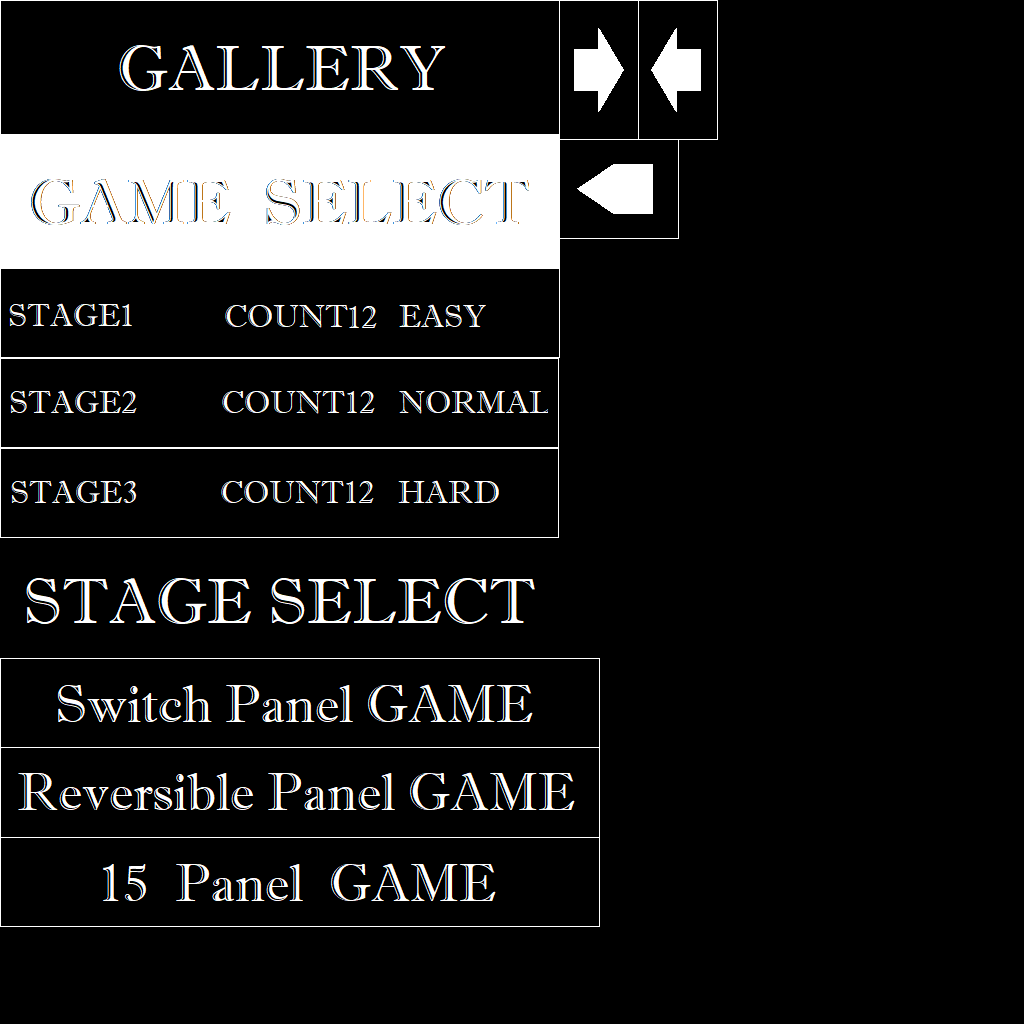
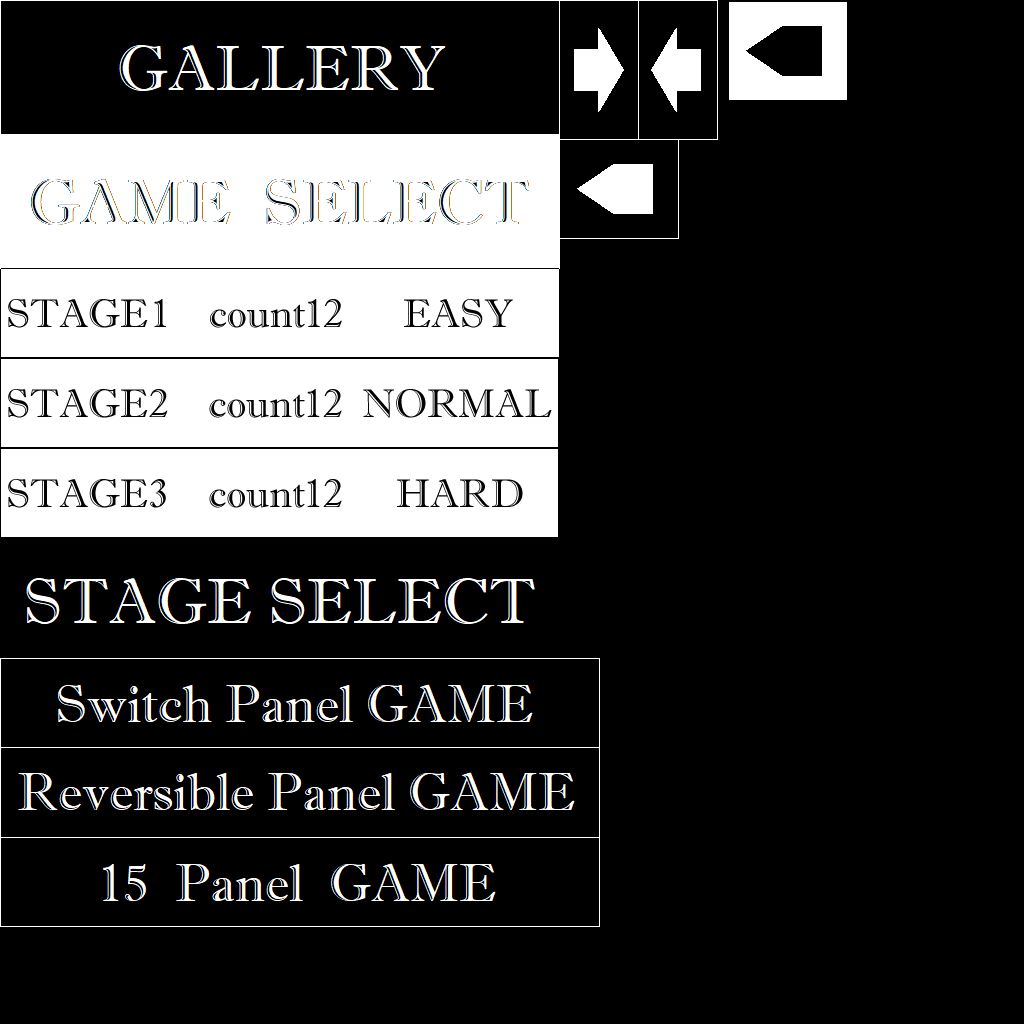
戻るボタンとかの色を反転差分追加

Changed region(s): [[0.0, 0.25, 0.5625, 0.5312], [0.6875, 0.0, 0.8438, 0.125]]

diff --git a/Project1/Project1/ObjSwitchSelect.h b/Project1/Project1/ObjSwitchSelect.h
@@ -45,10 +45,10 @@ using namespace GameL;
 #define RESOURCE_PSTAR_R (600.0f)
 #define RESOURCE_PSTAR_B (82.0f)
 
-#define RESOURCE_BACKBUTTON_T (139.0f)
-#define RESOURCE_BACKBUTTON_L (559.0f)
-#define RESOURCE_BACKBUTTON_R (679.0f)
-#define RESOURCE_BACKBUTTON_B (239.0f)
+#define RESOURCE_BACKBUTTON_T (0.0f)
+#define RESOURCE_BACKBUTTON_L (727.0f)
+#define RESOURCE_BACKBUTTON_R (849.0f)
+#define RESOURCE_BACKBUTTON_B (102.0f)
 
 #define BACKBUTTON_POS_T (35.0f)
 #define BACKBUTTON_POS_L (5.0f)
